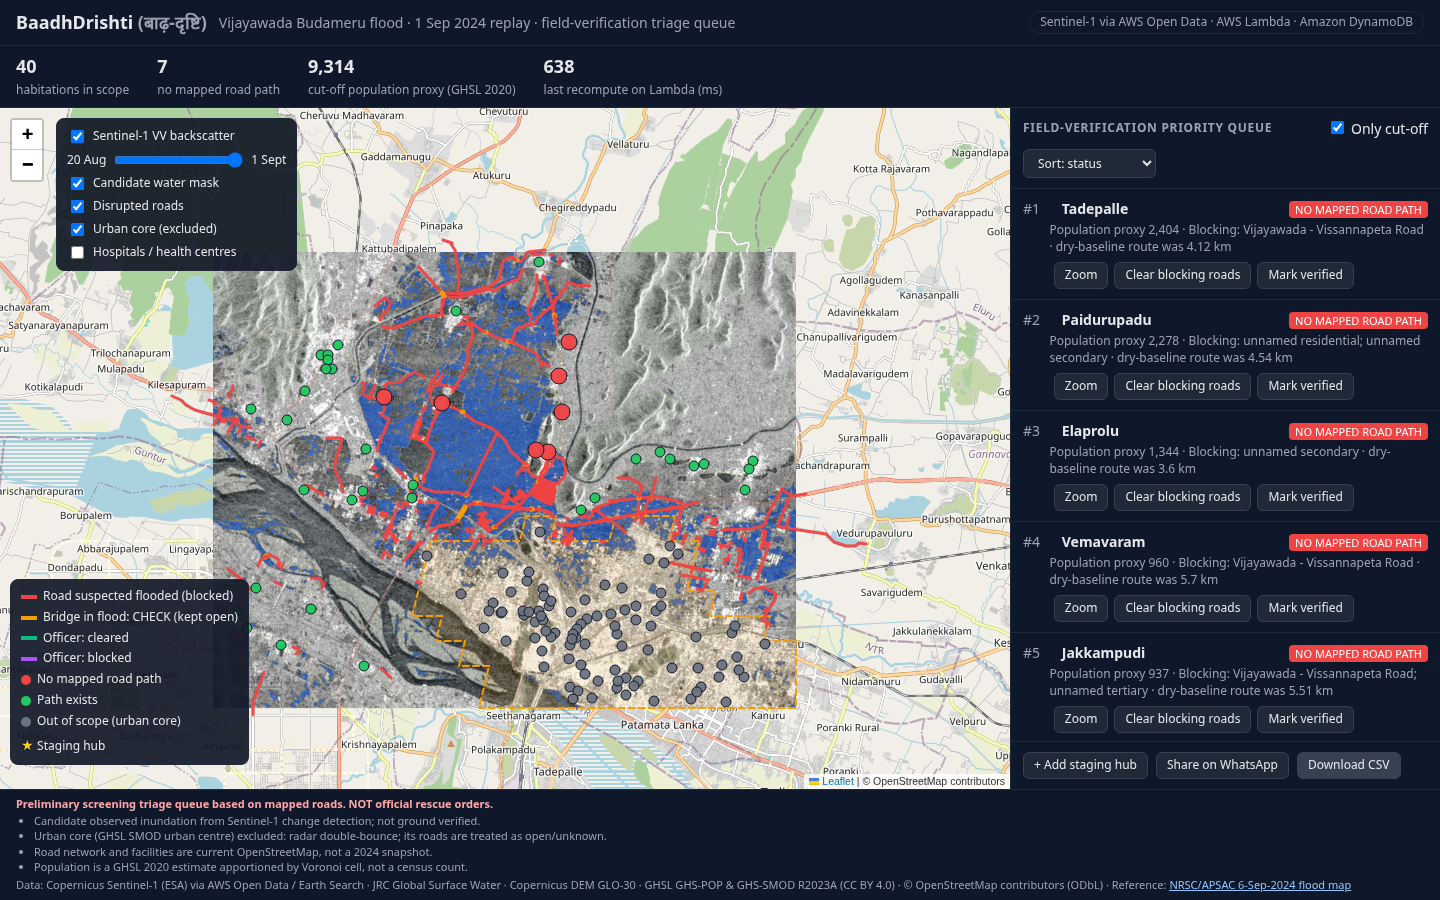
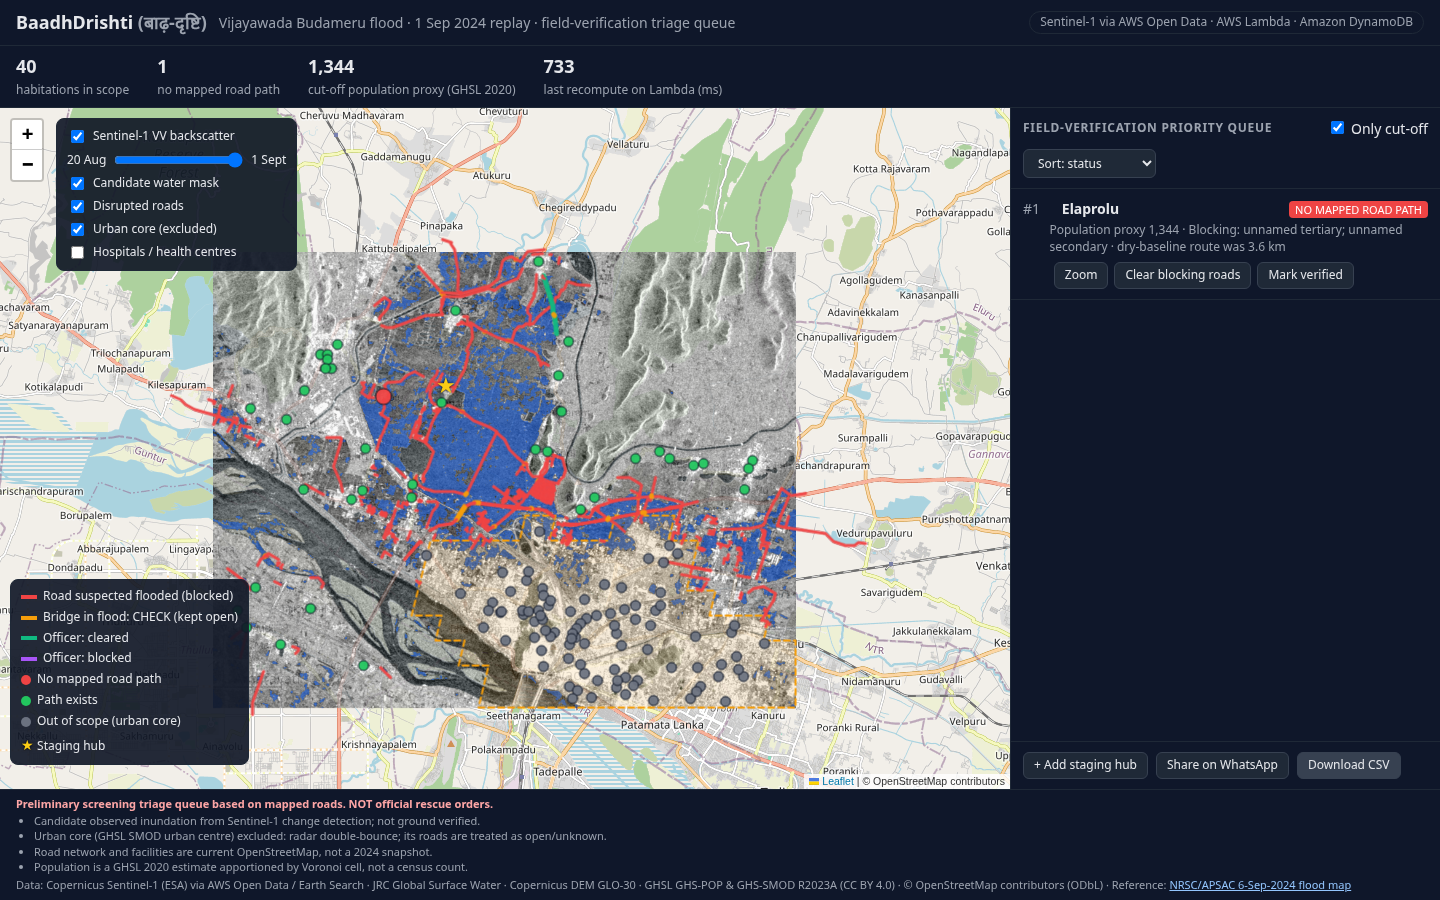
fix(web): share one canvas renderer so map roads are clickable
Per-pane canvas renderers stacked the habitation canvas over the roads
canvas and swallowed every click, so road popups (clear/block) and the
urban-core tooltip never fired on the map. Smoke test now clicks a road.

diff --git a/frontend/index.html b/frontend/index.html
@@ -153,9 +153,11 @@ const statusText = s => s.replaceAll('_', ' ');
 const map = L.map('map', { preferCanvas: true }).fitBounds(AOI_BOUNDS);
 L.tileLayer('https://tile.openstreetmap.org/{z}/{x}/{y}.png', {
   maxZoom: 19, attribution: '&copy; OpenStreetMap contributors' }).addTo(map);
-for (const [pane, z] of [['sar', 350], ['mask', 360], ['urban', 370], ['roads', 410], ['habs', 450]]) {
+for (const [pane, z] of [['sar', 350], ['mask', 360], ['vec', 410]]) {
   map.createPane(pane).style.zIndex = z;
 }
+// One canvas for every vector layer: separate per-pane canvases swallow each other's clicks and hovers.
+const VEC = L.canvas({ pane: 'vec' });
 const LY = { pre: null, post: null, mask: null, urban: null,
   roads: L.layerGroup().addTo(map), habs: L.layerGroup().addTo(map), dest: L.layerGroup(), hubs: L.layerGroup().addTo(map) };
 
@@ -186,7 +188,7 @@ async function loadStatic() {
   const day = d => new Date(d + 'T00:00:00Z').toLocaleDateString('en-IN', { day: 'numeric', month: 'short', timeZone: 'UTC' });
   $('d-pre').textContent = day(ov.pre_date); $('d-post').textContent = day(ov.post_date);
   LY.urban = L.geoJSON(await getJSON('data/urban_core.geojson'), {
-    pane: 'urban', interactive: true,
+    renderer: VEC, interactive: true,
     style: { color: '#f59e0b', weight: 2, dashArray: '6 4', fillColor: '#f59e0b', fillOpacity: 0.12 },
   }).bindTooltip(URBAN_TIP, { sticky: true }).addTo(map);
   applySar();
@@ -210,7 +212,7 @@ function renderStats() {
 function renderRoads() {
   LY.roads.clearLayers();
   L.geoJSON(S.data.disrupted_edges, {
-    pane: 'roads',
+    renderer: VEC,
     style: f => ({ color: ROAD_COLOR[f.properties.status], weight: f.properties.status === 'AUTO_SUSPECTED' ? 3 : 5, opacity: 0.95 }),
     onEachFeature: (f, layer) => layer.on('click', e => { if (!S.addHub) roadPopup(f.properties, e.latlng); }),
   }).addTo(LY.roads);
@@ -220,7 +222,7 @@ function renderHabs() {
   LY.habs.clearLayers();
   const add = (r, oos) => {
     const cut = !oos && r.status !== 'PATH_EXISTS';
-    L.circleMarker([r.lat, r.lon], { pane: 'habs', radius: cut ? 8 : 5, color: '#111827', weight: 1,
+    L.circleMarker([r.lat, r.lon], { renderer: VEC, radius: cut ? 8 : 5, color: '#111827', weight: 1,
         fillColor: oos ? '#6b7280' : HAB_COLOR[r.status], fillOpacity: 0.95 })
       .bindTooltip(`${esc(r.name)} · ${esc(oos ? r.excluded_reason : statusText(r.status))}`)
       .on('click', () => { if (!S.addHub && !oos) select(r.id, true); })
@@ -232,7 +234,7 @@ function renderHabs() {
 function renderDest() {
   LY.dest.clearLayers();
   for (const d of S.data.destinations || []) {
-    L.circleMarker([d.lat, d.lon], { pane: 'habs', radius: 3, color: '#1d4ed8', weight: 1, fillColor: '#3b82f6', fillOpacity: 1 })
+    L.circleMarker([d.lat, d.lon], { renderer: VEC, radius: 3, color: '#1d4ed8', weight: 1, fillColor: '#3b82f6', fillOpacity: 1 })
       .bindTooltip(esc(d.name)).addTo(LY.dest);
   }
   toggle('t-dest', LY.dest);

diff --git a/tests/frontend_smoke.py b/tests/frontend_smoke.py
@@ -33,6 +33,20 @@ def main(url, write):
         assert page.locator(".leaflet-image-layer").count() == 3, "pre/post/mask overlays missing"
         assert "NOT official rescue orders" in page.inner_text("footer")
 
+        # clicking a disrupted road on the map must open its popup (canvas stacking bug, fixed 2026-10-11)
+        page.evaluate("""() => new Promise(r => {
+            const f = S.data.disrupted_edges.features.find(f => f.properties.status === 'AUTO_SUSPECTED');
+            const c = f.geometry.coordinates[Math.floor(f.geometry.coordinates.length / 2)];
+            map.once('moveend', () => r(1)); map.setView([c[1], c[0]], 17, { animate: false }); })""")
+        page.wait_for_timeout(500)
+        xy = page.evaluate("""() => { const f = S.data.disrupted_edges.features.find(f => f.properties.status === 'AUTO_SUSPECTED');
+            const c = f.geometry.coordinates[Math.floor(f.geometry.coordinates.length / 2)];
+            const p = map.latLngToContainerPoint([c[1], c[0]]), r = document.getElementById('map').getBoundingClientRect();
+            return [r.left + p.x, r.top + p.y]; }""")
+        page.mouse.click(*xy)
+        page.wait_for_selector(".leaflet-popup-content button[data-s=FORCE_BLOCKED]", timeout=5000)
+        page.evaluate("() => { map.closePopup(); map.fitBounds([[16.50, 80.50], [16.65, 80.70]]); }")
+
         page.uncheck("#f-cut")
         assert page.locator("#queue .row[data-id]").count() > rows, "unchecking filter should show PATH_EXISTS rows"
         page.check("#f-cut")
